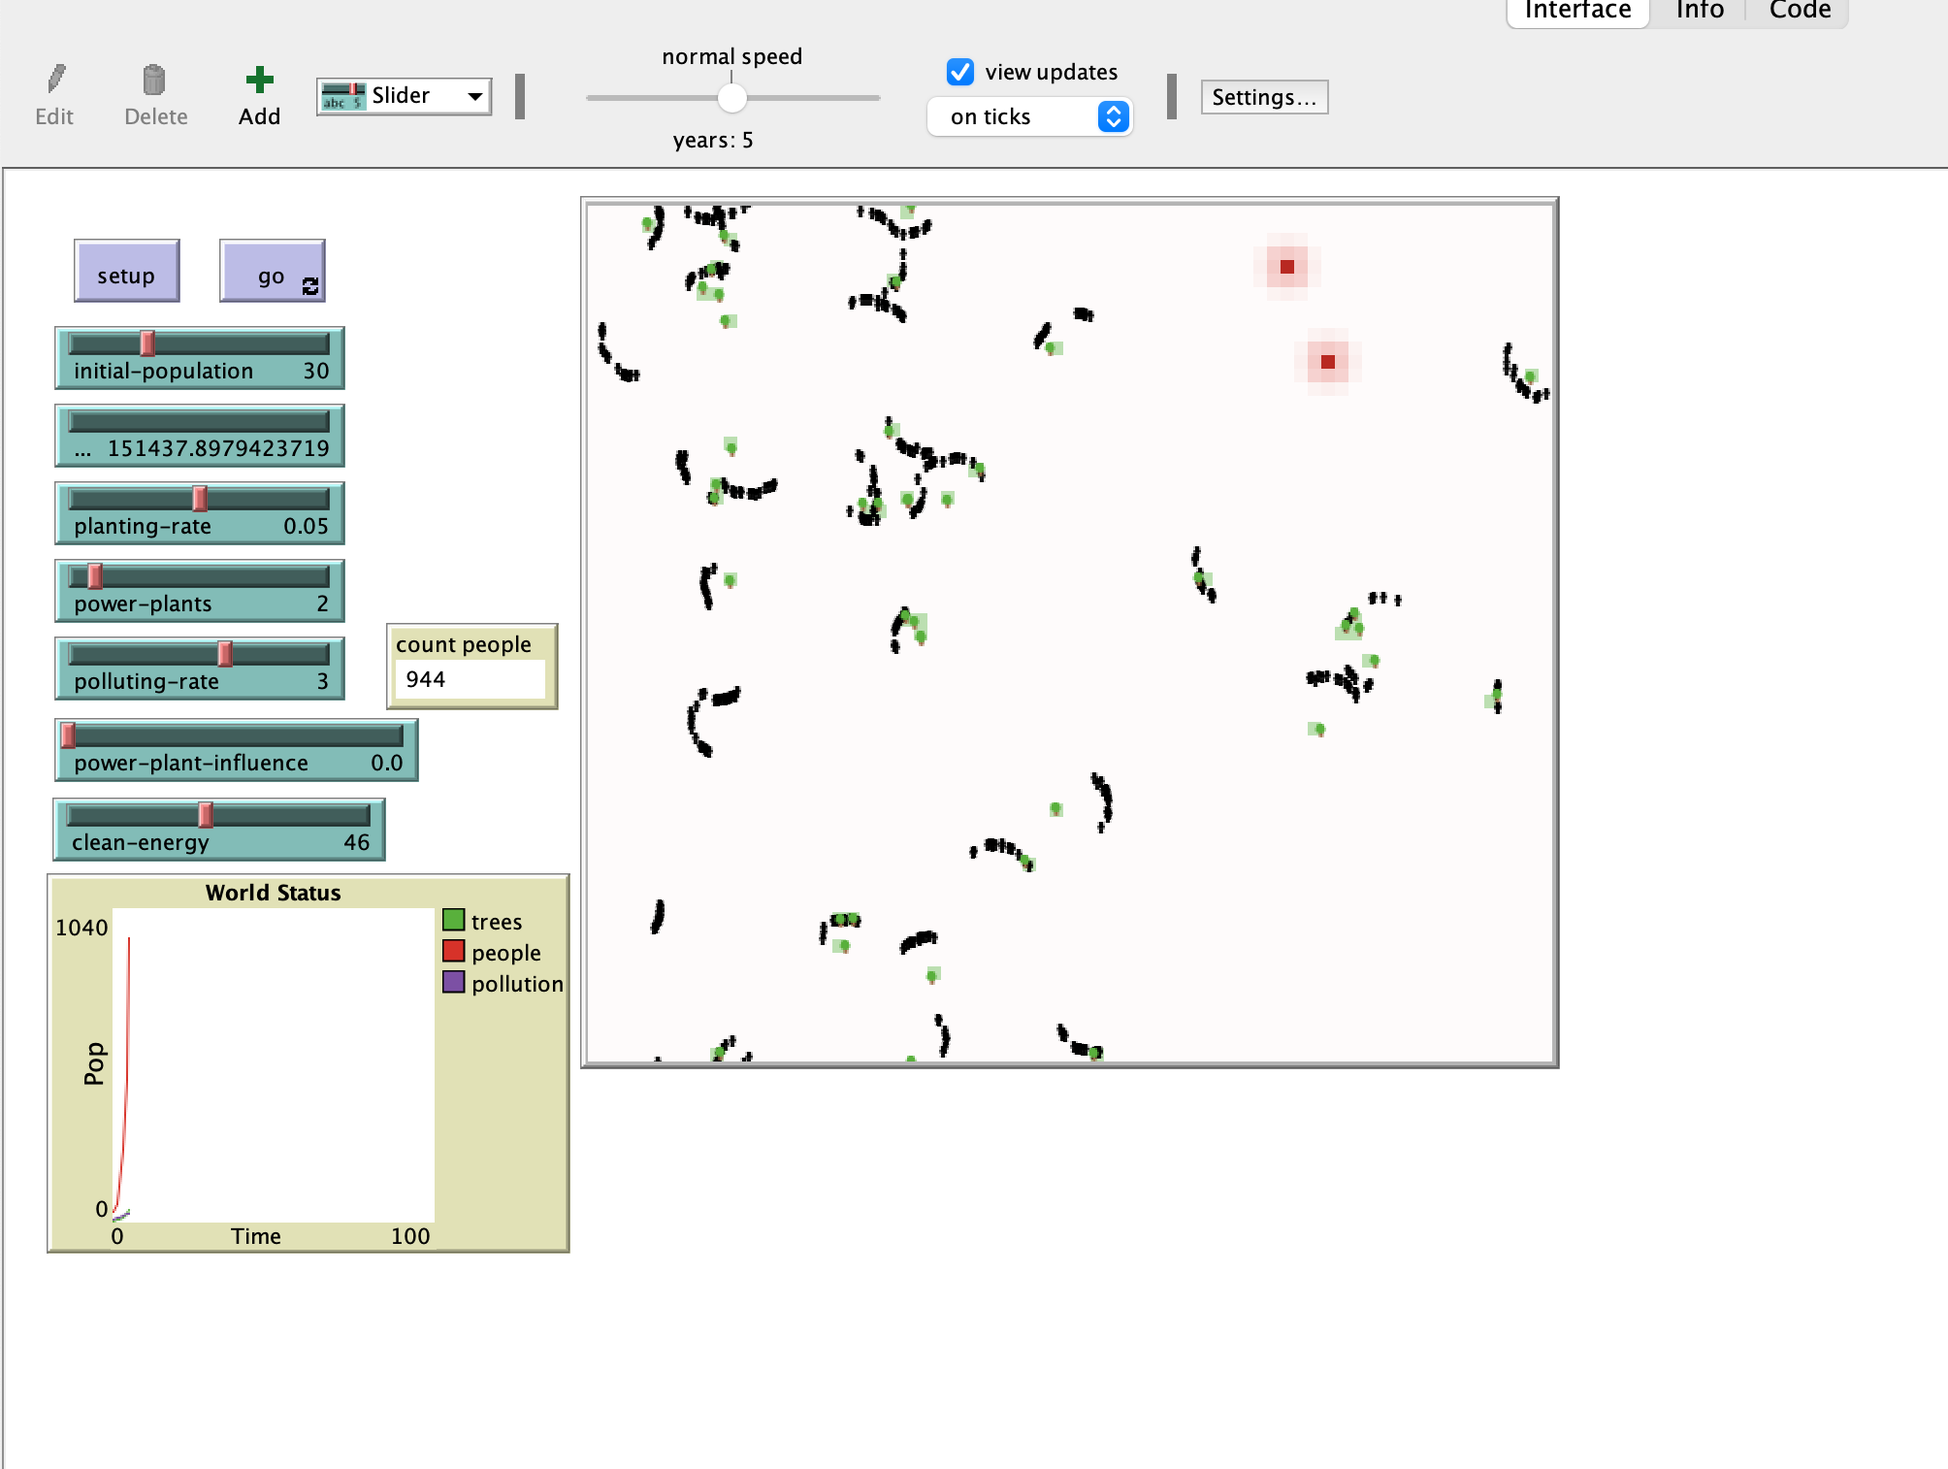
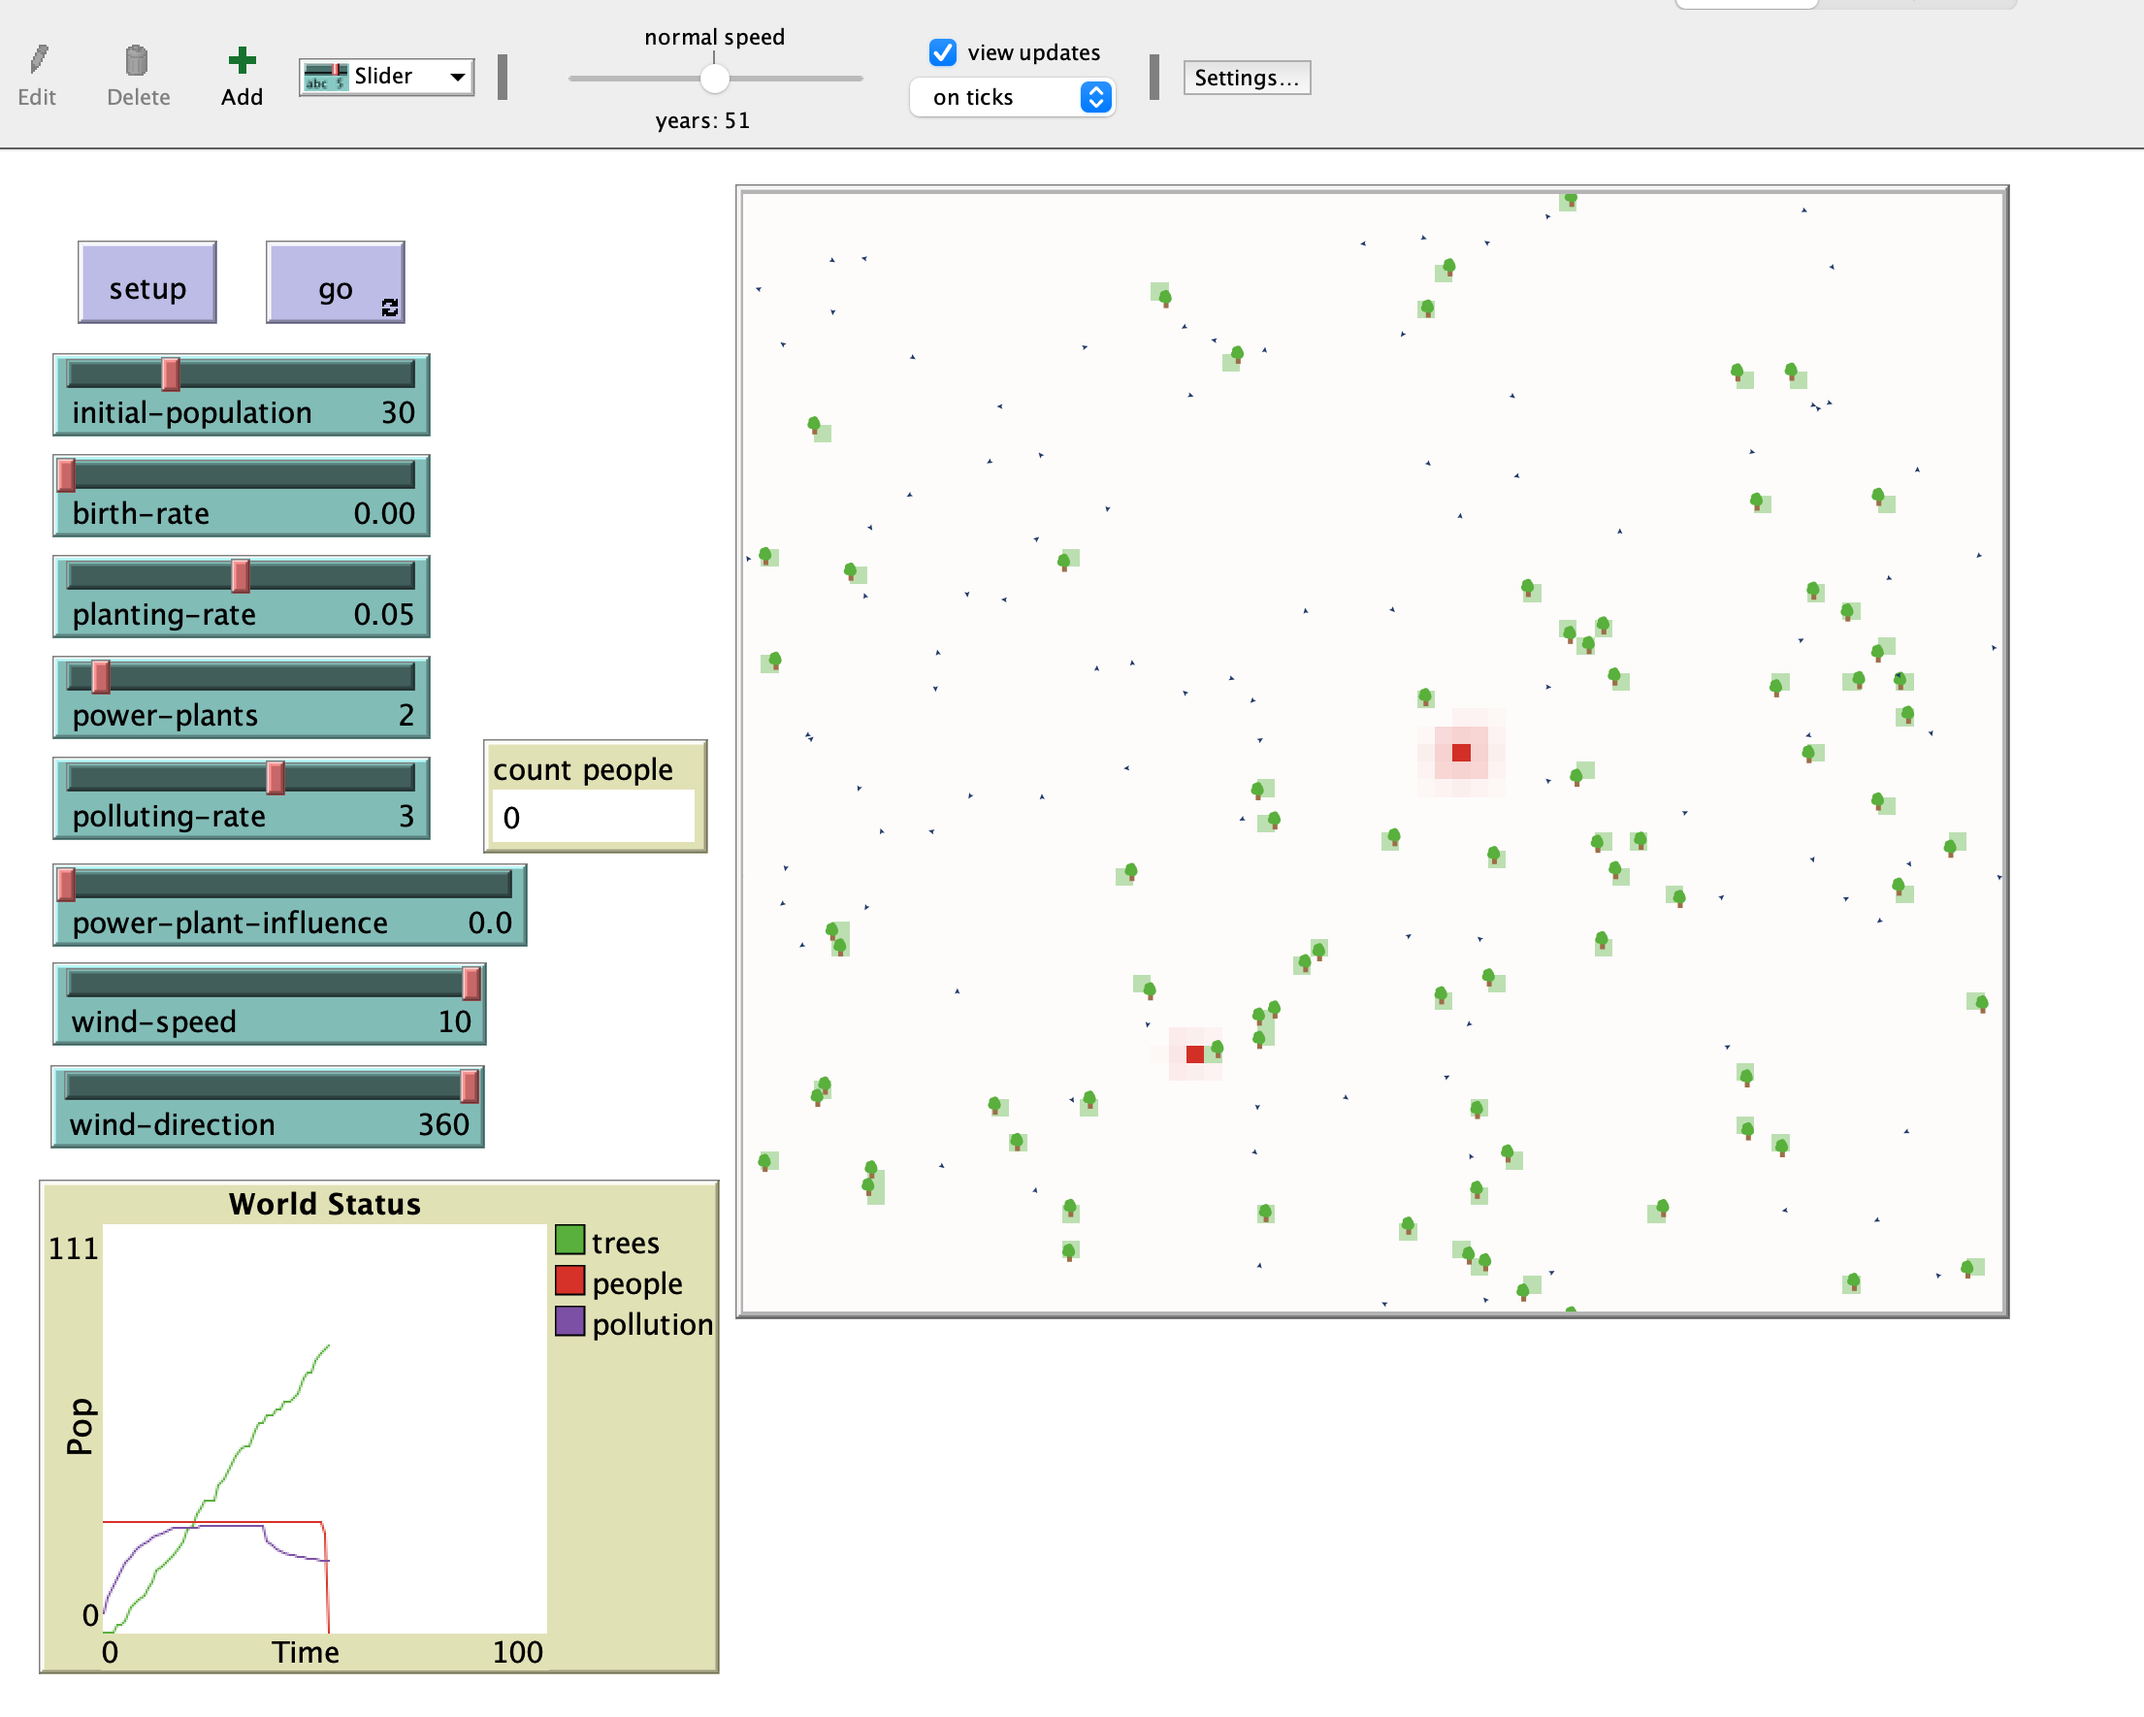
updated readme

diff --git a/KCIM/lab2/model.md b/KCIM/lab2/model.md
@@ -48,30 +48,39 @@ end
 ![Скріншот моделі в процесі симуляції](influence.png)
 
 ### Внесені зміни у вихідну логіку моделі, на власний розсуд:
-Додано новий атрибут клітин clean-energy для відображення наявності чистої енергії і її впливу на народжуваність.
+Розглянемо вплив вітру на росповсюдження зараження. Додано новий атрибут wind-speed, wind-direction.
 
 <pre>
 patches-own [
-  clean-energy
+  wind-speed
+  wind-direction
 ]
 </pre>
-Додано новий метод для симуляції ефекту чистої енергії на народжуваність:
+Додано новий метод для симуляції вітру:
 <pre>
-to update-clean-energy-effect
-  ask patches with [clean-energy > 0] [
-    ask neighbors [
-      set birth-rate birth-rate + (clean-energy * 0.001)
-    ]
+to move  ;; wind-path procedure
+  rt random-float 30 - random-float 30
+  fd wind-speed
+  if pcolor = red [ set color blue - 2 ]
+end
+</pre>
+Зменшимо еффект зараження зі збільшенням щвидкості вітру:
+<pre>
+
+to pollute  ;; patch procedure
+  if is-power-plant? [
+    set pcolor red
+    set pollution polluting-rate
   ]
+  
+ if pollution > 0 [
+    set pollution pollution - (pollution * wind-speed / 100)
+  ]
+
+  set pcolor scale-color red (pollution - .1) 5 0
 end
 </pre>
-Велючено новий метод до головного циклу моделі:
-<pre>
-to go
-  update-clean-energy-effect
-end
-</pre>
-Експеримент демонструє, що чиста енергія може мати позитивний вплив на демографічні показники в симульованому середовищі. Це відкриває можливості для додаткових досліджень щодо взаємозв'язку між екологічними умовами та демографічною динамікою, а також розробки стратегій збільшення народжуваності через покращення екологічних умов.
+
 ![Скріншот моделі в процесі симуляції](clean-energy.png)
 Фінальний код моделі та її інтерфейс доступні за [посиланням](model.nlogo). *// якщо вносили зміни до інтерфейсу середовища моделювання - то експорт потрібен у форматі nlogo, як тут. Інакше, якщо змінювався лише код логіки моделі, достатньо викласти лише його, як [тут](model-code.html),якщо експортовано з десктопної версії NetLogo, або окремим текстовим файлом, шляхом копіпасту з веб-версії*.
 <br>
